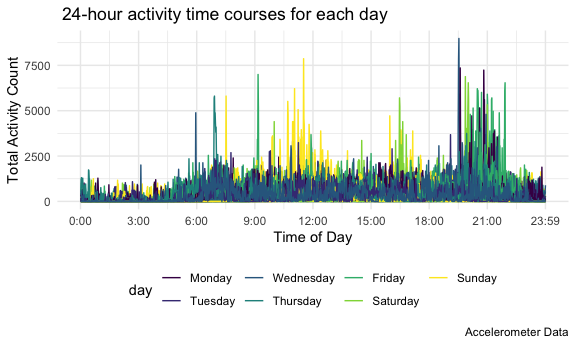
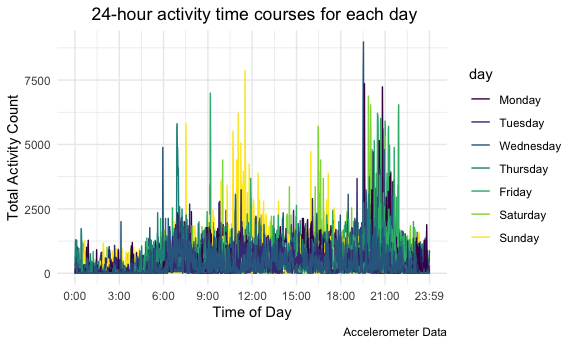
attempt 2: edit some adjustments on plots

diff --git a/p8105_hw3_yc4195.md b/p8105_hw3_yc4195.md
@@ -1,7 +1,7 @@
 p8105_hw3_yc4195.RMD
 ================
 Yimin Chen yc4195
-2022-10-08
+2022-10-12
 
 ## Problem 1
 
@@ -14,10 +14,16 @@ instacart %>%
   summarize(n_obs = n())%>%
   arrange(desc(n_obs))%>%
   filter(n_obs > 10000)%>%
-  ggplot(aes(x = aisle, y = n_obs,color =  aisle)) + geom_point()
+  mutate(
+        aisle = factor(aisle),
+        aisle = fct_reorder(aisle, n_obs)
+    ) %>% 
+  ggplot(aes(x = aisle, y = n_obs)) + geom_point()+
+  theme(axis.text.x = element_text(angle = 90, vjust = 0.5, hjust = 1))
 ```
 
 <img src="p8105_hw3_yc4195_files/figure-gfm/unnamed-chunk-1-1.png" width="90%" />
+
 Make a table showing the three most popular items in each of the aisles
 “baking ingredients”, “dog food care”, and “packaged vegetables fruits”.
 Include the number of times each item is ordered in your table.
@@ -115,55 +121,28 @@ character variable to a factor variable.
 ``` r
 accel_table <-
   accel %>% 
-  group_by(day_id, day, week) %>%
-  summarize(total_activity = sum(activity_count)) %>% 
+  group_by(week,day) %>%
+  summarize(total_activity = sum(activity_count)) %>%pivot_wider(
+    names_from = day, 
+    values_from = total_activity
+  )%>%
   knitr::kable(digits = 0)
 ```
 
-    ## `summarise()` has grouped output by 'day_id', 'day'. You can override using the
+    ## `summarise()` has grouped output by 'week'. You can override using the
     ## `.groups` argument.
 
 ``` r
 accel_table
 ```
 
-| day_id | day       | week | total_activity |
-|:-------|:----------|-----:|---------------:|
-| 1      | Friday    |    1 |         480543 |
-| 2      | Monday    |    1 |          78828 |
-| 3      | Saturday  |    1 |         376254 |
-| 4      | Sunday    |    1 |         631105 |
-| 5      | Thursday  |    1 |         355924 |
-| 6      | Tuesday   |    1 |         307094 |
-| 7      | Wednesday |    1 |         340115 |
-| 8      | Friday    |    2 |         568839 |
-| 9      | Monday    |    2 |         295431 |
-| 10     | Saturday  |    2 |         607175 |
-| 11     | Sunday    |    2 |         422018 |
-| 12     | Thursday  |    2 |         474048 |
-| 13     | Tuesday   |    2 |         423245 |
-| 14     | Wednesday |    2 |         440962 |
-| 15     | Friday    |    3 |         467420 |
-| 16     | Monday    |    3 |         685910 |
-| 17     | Saturday  |    3 |         382928 |
-| 18     | Sunday    |    3 |         467052 |
-| 19     | Thursday  |    3 |         371230 |
-| 20     | Tuesday   |    3 |         381507 |
-| 21     | Wednesday |    3 |         468869 |
-| 22     | Friday    |    4 |         154049 |
-| 23     | Monday    |    4 |         409450 |
-| 24     | Saturday  |    4 |           1440 |
-| 25     | Sunday    |    4 |         260617 |
-| 26     | Thursday  |    4 |         340291 |
-| 27     | Tuesday   |    4 |         319568 |
-| 28     | Wednesday |    4 |         434460 |
-| 29     | Friday    |    5 |         620860 |
-| 30     | Monday    |    5 |         389080 |
-| 31     | Saturday  |    5 |           1440 |
-| 32     | Sunday    |    5 |         138421 |
-| 33     | Thursday  |    5 |         549658 |
-| 34     | Tuesday   |    5 |         367824 |
-| 35     | Wednesday |    5 |         445366 |
+| week | Monday | Tuesday | Wednesday | Thursday | Friday | Saturday | Sunday |
+|-----:|-------:|--------:|----------:|---------:|-------:|---------:|-------:|
+|    1 |  78828 |  307094 |    340115 |   355924 | 480543 |   376254 | 631105 |
+|    2 | 295431 |  423245 |    440962 |   474048 | 568839 |   607175 | 422018 |
+|    3 | 685910 |  381507 |    468869 |   371230 | 467420 |   382928 | 467052 |
+|    4 | 409450 |  319568 |    434460 |   340291 | 154049 |     1440 | 260617 |
+|    5 | 389080 |  367824 |    445366 |   549658 | 620860 |     1440 | 138421 |
 
 From the generated table, we can see during Saturday in week 4 and 5,
 the total activity falls into a lowest value.Overall, there isn’t a
@@ -173,8 +152,9 @@ clear trend for total activity pattern for each day.
 accel_plot <-
   accel%>% 
   group_by(day, day_id) %>% 
-  mutate(activity_time = parse_number(activity_time)) %>% 
+   mutate(activity_time = parse_number(activity_time)) %>% 
   ggplot(aes(x = activity_time, y = activity_count, group = day_id, color = day)) + 
+  theme(legend.position = "right") +
   labs(
     title = " 24-hour activity time courses for each day",
     x = "Time of Day",
@@ -185,6 +165,7 @@ accel_plot <-
     breaks = c(0, 180, 360, 540, 720, 900, 1080, 1260, 1440),
     labels = c("0:00", "3:00", "6:00", "9:00", "12:00", "15:00", "18:00", "21:00", "23:59"),
     limits = c(0, 1440)) +
+  theme(plot.title = element_text(hjust = 0.5))+
   geom_line()
 accel_plot
 ```
@@ -199,19 +180,7 @@ noon.
 
 ``` r
 data("ny_noaa")
-```
 
-The ny_noaa dataset contains informationaccessed from the NOAA National
-Climatic Data Center. The ataset has 2595176 rows and 7 columns.The
-variables in this dataset are id, date, prcp, snow, snwd, tmax, tmin .
-`id`: the Weather station ID `date`: Date of observation `prcp`:
-Precipitation `tmax`: Maximum temperature `tmin`: Minimum temperature
-`snow`: Snowfall (mm) `snwd`: Snow depth (mm) The extent to which
-missing data is an issue is determined by whether the data is missing at
-random since the station may not collect some precipitation or snow
-data.
-
-``` r
 noaa_df = ny_noaa %>% 
   janitor::clean_names() %>% 
   separate(date, into = c("year", "month", "day"), convert = TRUE) %>%
@@ -219,10 +188,48 @@ noaa_df = ny_noaa %>%
     year = as.numeric(year),
     month = as.numeric(month),
     day = as.numeric(day),
-    tmax = as.numeric(tmax) / 10,
-    tmin = as.numeric(tmin) / 10,
+    tmax = as.numeric(tmax)/10,
+    tmin = as.numeric(tmin)/10,
     prcp = prcp / 10 )
+skimr::skim_without_charts(noaa_df %>% select(-id))
 ```
+
+|                                                  |                          |
+|:-------------------------------------------------|:-------------------------|
+| Name                                             | noaa_df %\>% select(-id) |
+| Number of rows                                   | 2595176                  |
+| Number of columns                                | 8                        |
+| \_\_\_\_\_\_\_\_\_\_\_\_\_\_\_\_\_\_\_\_\_\_\_   |                          |
+| Column type frequency:                           |                          |
+| numeric                                          | 8                        |
+| \_\_\_\_\_\_\_\_\_\_\_\_\_\_\_\_\_\_\_\_\_\_\_\_ |                          |
+| Group variables                                  | None                     |
+
+Data summary
+
+**Variable type: numeric**
+
+| skim_variable | n_missing | complete_rate |    mean |     sd |     p0 |    p25 |    p50 |    p75 |  p100 |
+|:--------------|----------:|--------------:|--------:|-------:|-------:|-------:|-------:|-------:|------:|
+| year          |         0 |          1.00 | 1996.50 |   9.19 | 1981.0 | 1988.0 | 1997.0 | 2005.0 |  2010 |
+| month         |         0 |          1.00 |    6.56 |   3.45 |    1.0 |    4.0 |    7.0 |   10.0 |    12 |
+| day           |         0 |          1.00 |   15.73 |   8.80 |    1.0 |    8.0 |   16.0 |   23.0 |    31 |
+| prcp          |    145838 |          0.94 |    2.98 |   7.82 |    0.0 |    0.0 |    0.0 |    2.3 |  2286 |
+| snow          |    381221 |          0.85 |    4.99 |  27.22 |  -13.0 |    0.0 |    0.0 |    0.0 | 10160 |
+| snwd          |    591786 |          0.77 |   37.31 | 113.54 |    0.0 |    0.0 |    0.0 |    0.0 |  9195 |
+| tmax          |   1134358 |          0.56 |   13.98 |  11.14 |  -38.9 |    5.0 |   15.0 |   23.3 |    60 |
+| tmin          |   1134420 |          0.56 |    3.03 |  10.40 |  -59.4 |   -3.9 |    3.3 |   11.1 |    60 |
+
+The ny_noaa dataset contains informationaccessed from the NOAA National
+Climatic Data Center. The dataset has 2595176 rows and 7 columns.The
+variables in this dataset are id, date, prcp, snow, snwd, tmax, tmin ,
+which include: id: Weather station ID date: Date of observation prcp:
+Precipitation (tenths of mm) snow: Snowfall (mm) snwd: Snow depth (mm)
+tmax: Maximum temperature (tenths of degrees C) tmin: Minimum
+temperature (tenths of degrees C) The extent to which missing data is an
+issue is determined by whether the data is missing at random since the
+station may not collect some precipitation or snow data. More detailed
+information is presented in the chart above.
 
 ``` r
 noaa_df %>% 
@@ -265,7 +272,7 @@ two_panel_plot = noaa_df %>%
    drop_na() %>% 
   ggplot(aes(x = year, y = mean_tmax, group = id, color = month)) +
   geom_point() +
-  geom_smooth() +
+  geom_smooth() + 
   labs(
     title = "Average max temperature in January and July in each NYC station across years",
     x = "Year",
@@ -278,6 +285,7 @@ two_panel_plot
 ```
 
 <img src="p8105_hw3_yc4195_files/figure-gfm/two_panel_plot1-1.png" width="90%" />
+
 The average maximum temperature in January ranged from -10°C to 10°C
 degrees, with two severely points falling below -10°C degrees, which can
 be seen as two outliers.The average maximum temperature in July ranged
@@ -294,22 +302,26 @@ plot1=
   ggplot(aes(x = tmin, y = tmax)) +
   geom_hex() +
   labs(
-    title = "Daily temperature 1981-2010",
-    x = "Minimum temperature (Celsius)",
-    y = "Maximum temperature (Celsius)"
+    title = "tmax versus tmin",
+    x = "Minimum temperature ",
+    y = "Maximum temperature "
   ) + 
-  theme(legend.position = "right")
+  theme(legend.position = "right")+
+  theme(plot.title = element_text(hjust = 0.5))
 plot2=
   noaa_df %>%
   filter(snow > 0 ,snow < 100) %>%
   group_by(year) %>%
   ggplot(aes(x = year, y = snow,group = year)) +
-  geom_boxplot(fill = 'pink') + 
   labs(
-    title = 'NY Snowfall value by year',
+    title = 'NYC Snowfall count by year',
     y = 'Snowfall in mm',
     x = 'Year'
-  )
+  )+scale_x_continuous(
+                     breaks =c(1980,1985,1990,1995,2000,2005,2010),
+                     limits = c(1980,2011))+ 
+  stat_boxplot(geom = "boxplot",  width = 0.6)+
+  theme(plot.title = element_text(hjust = 0.5))
 plot1 / plot2  
 ```
 
